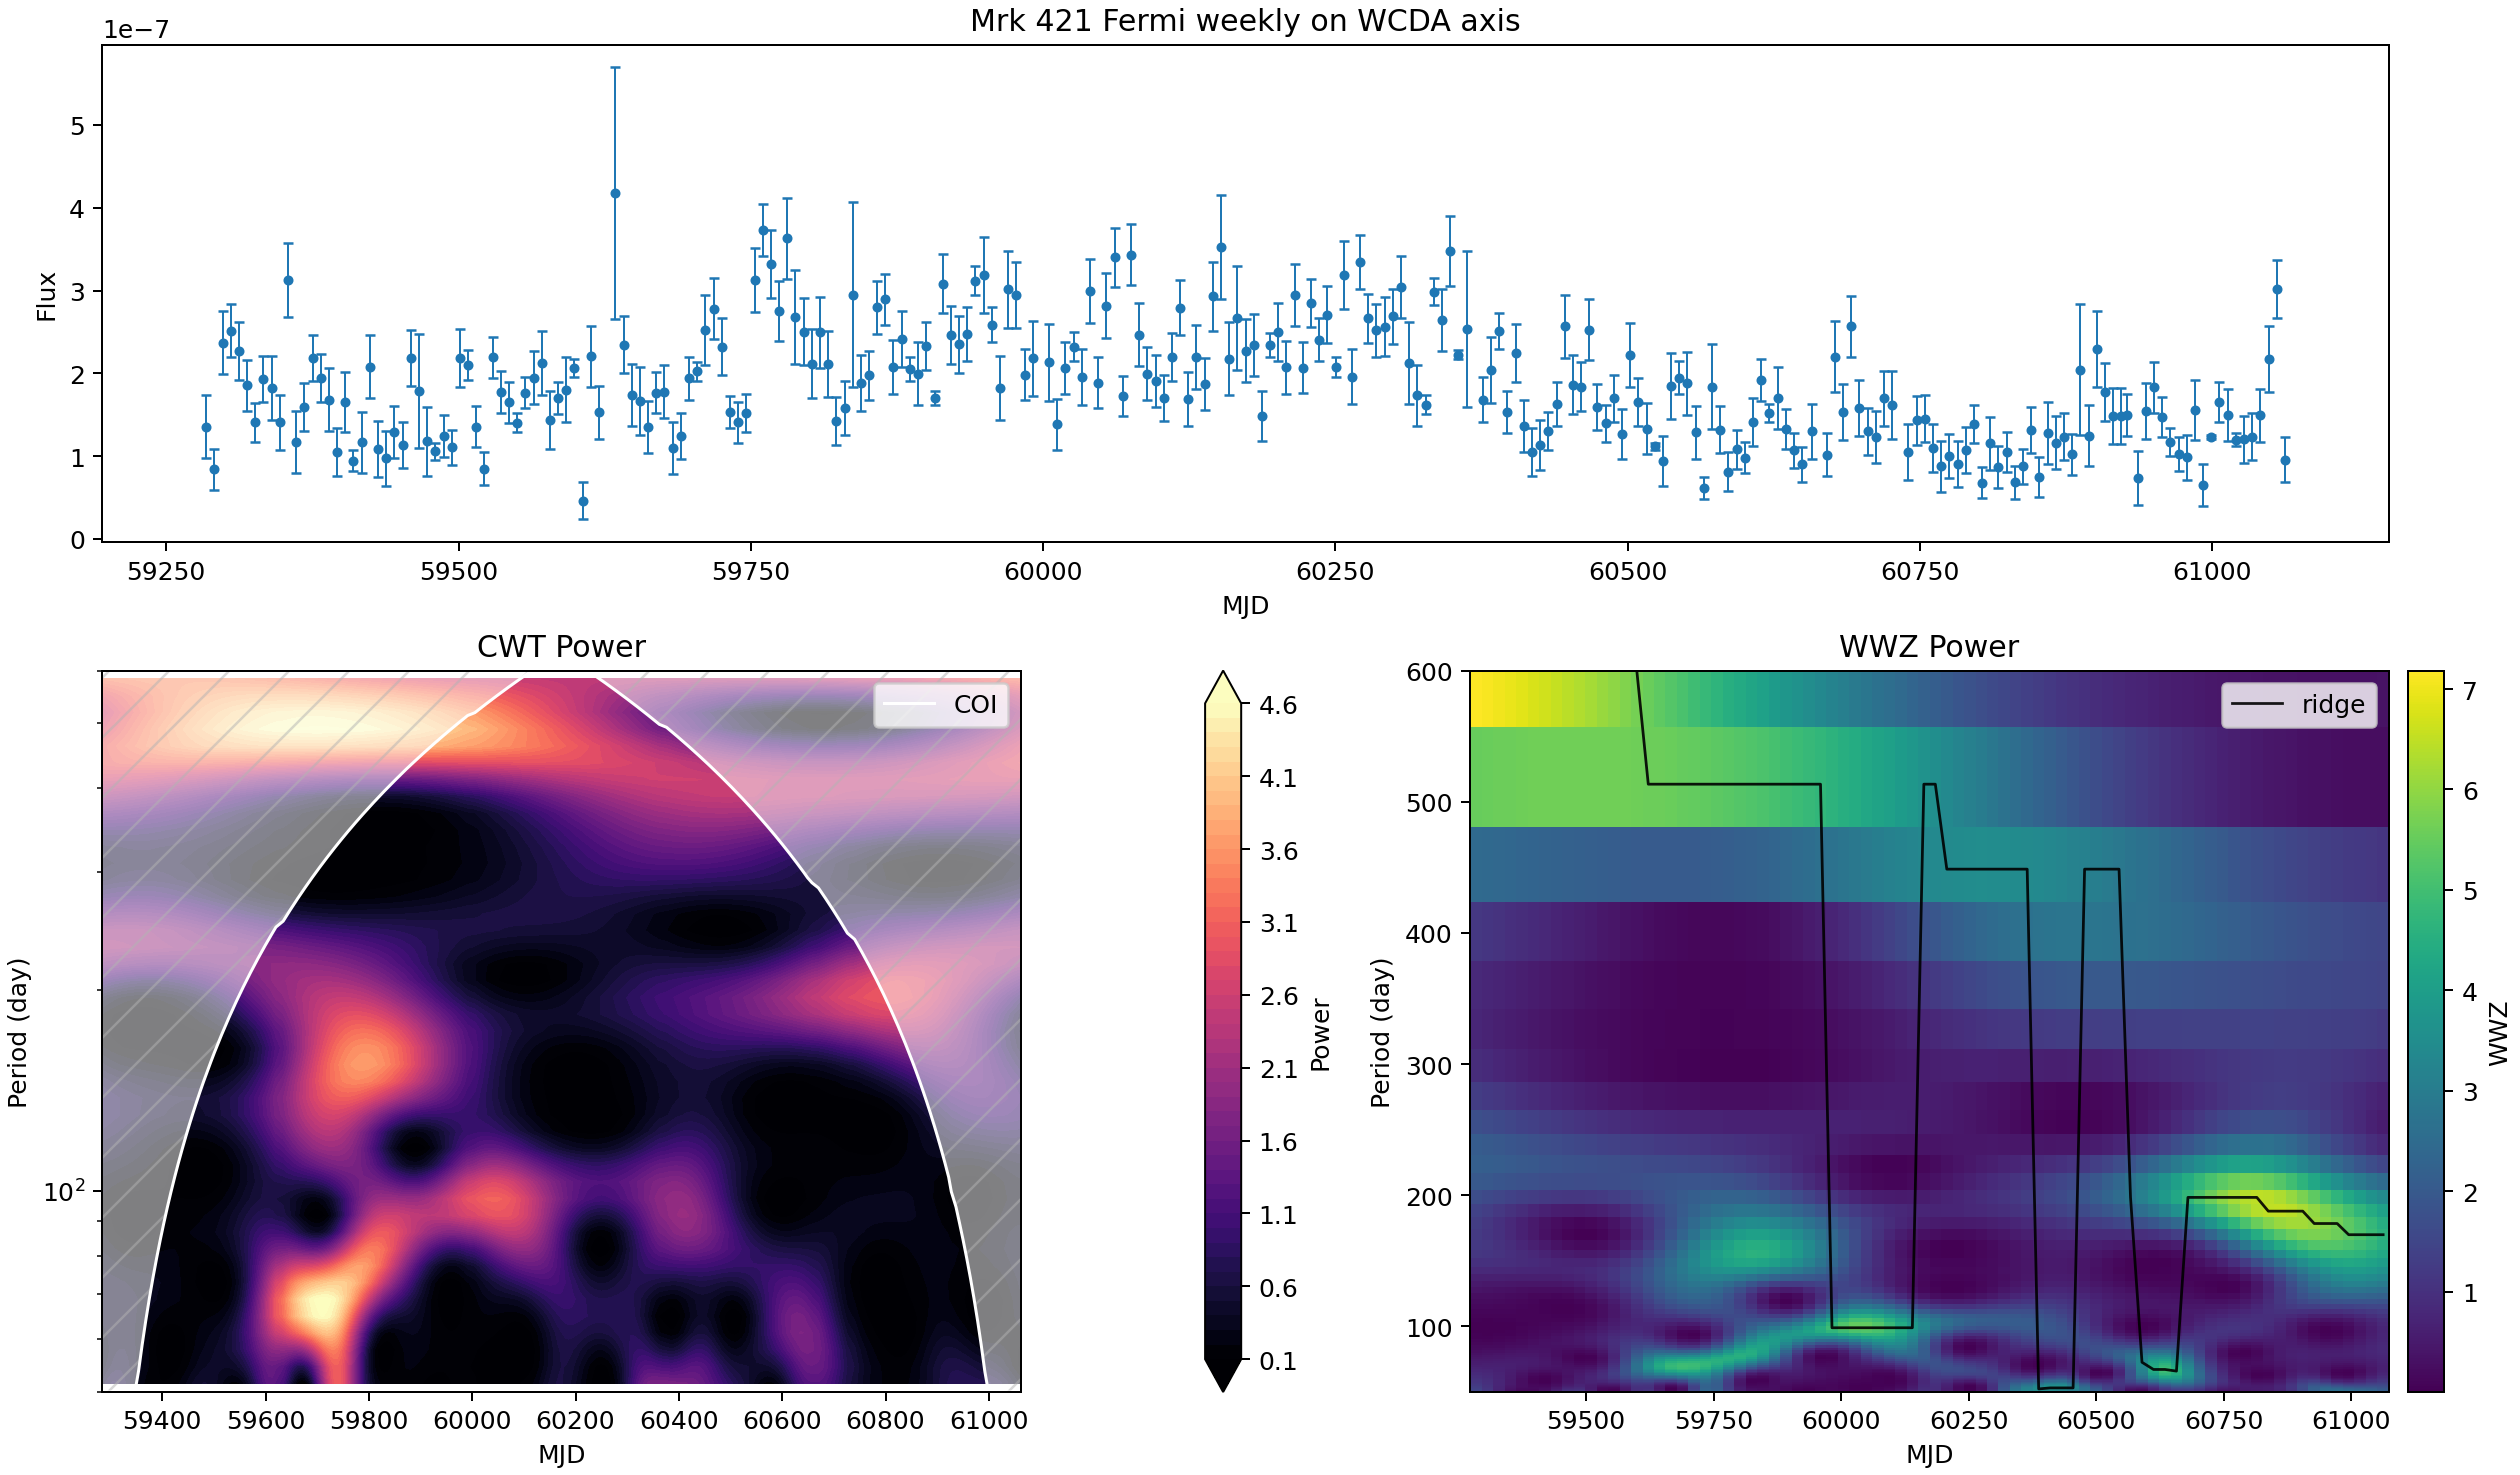
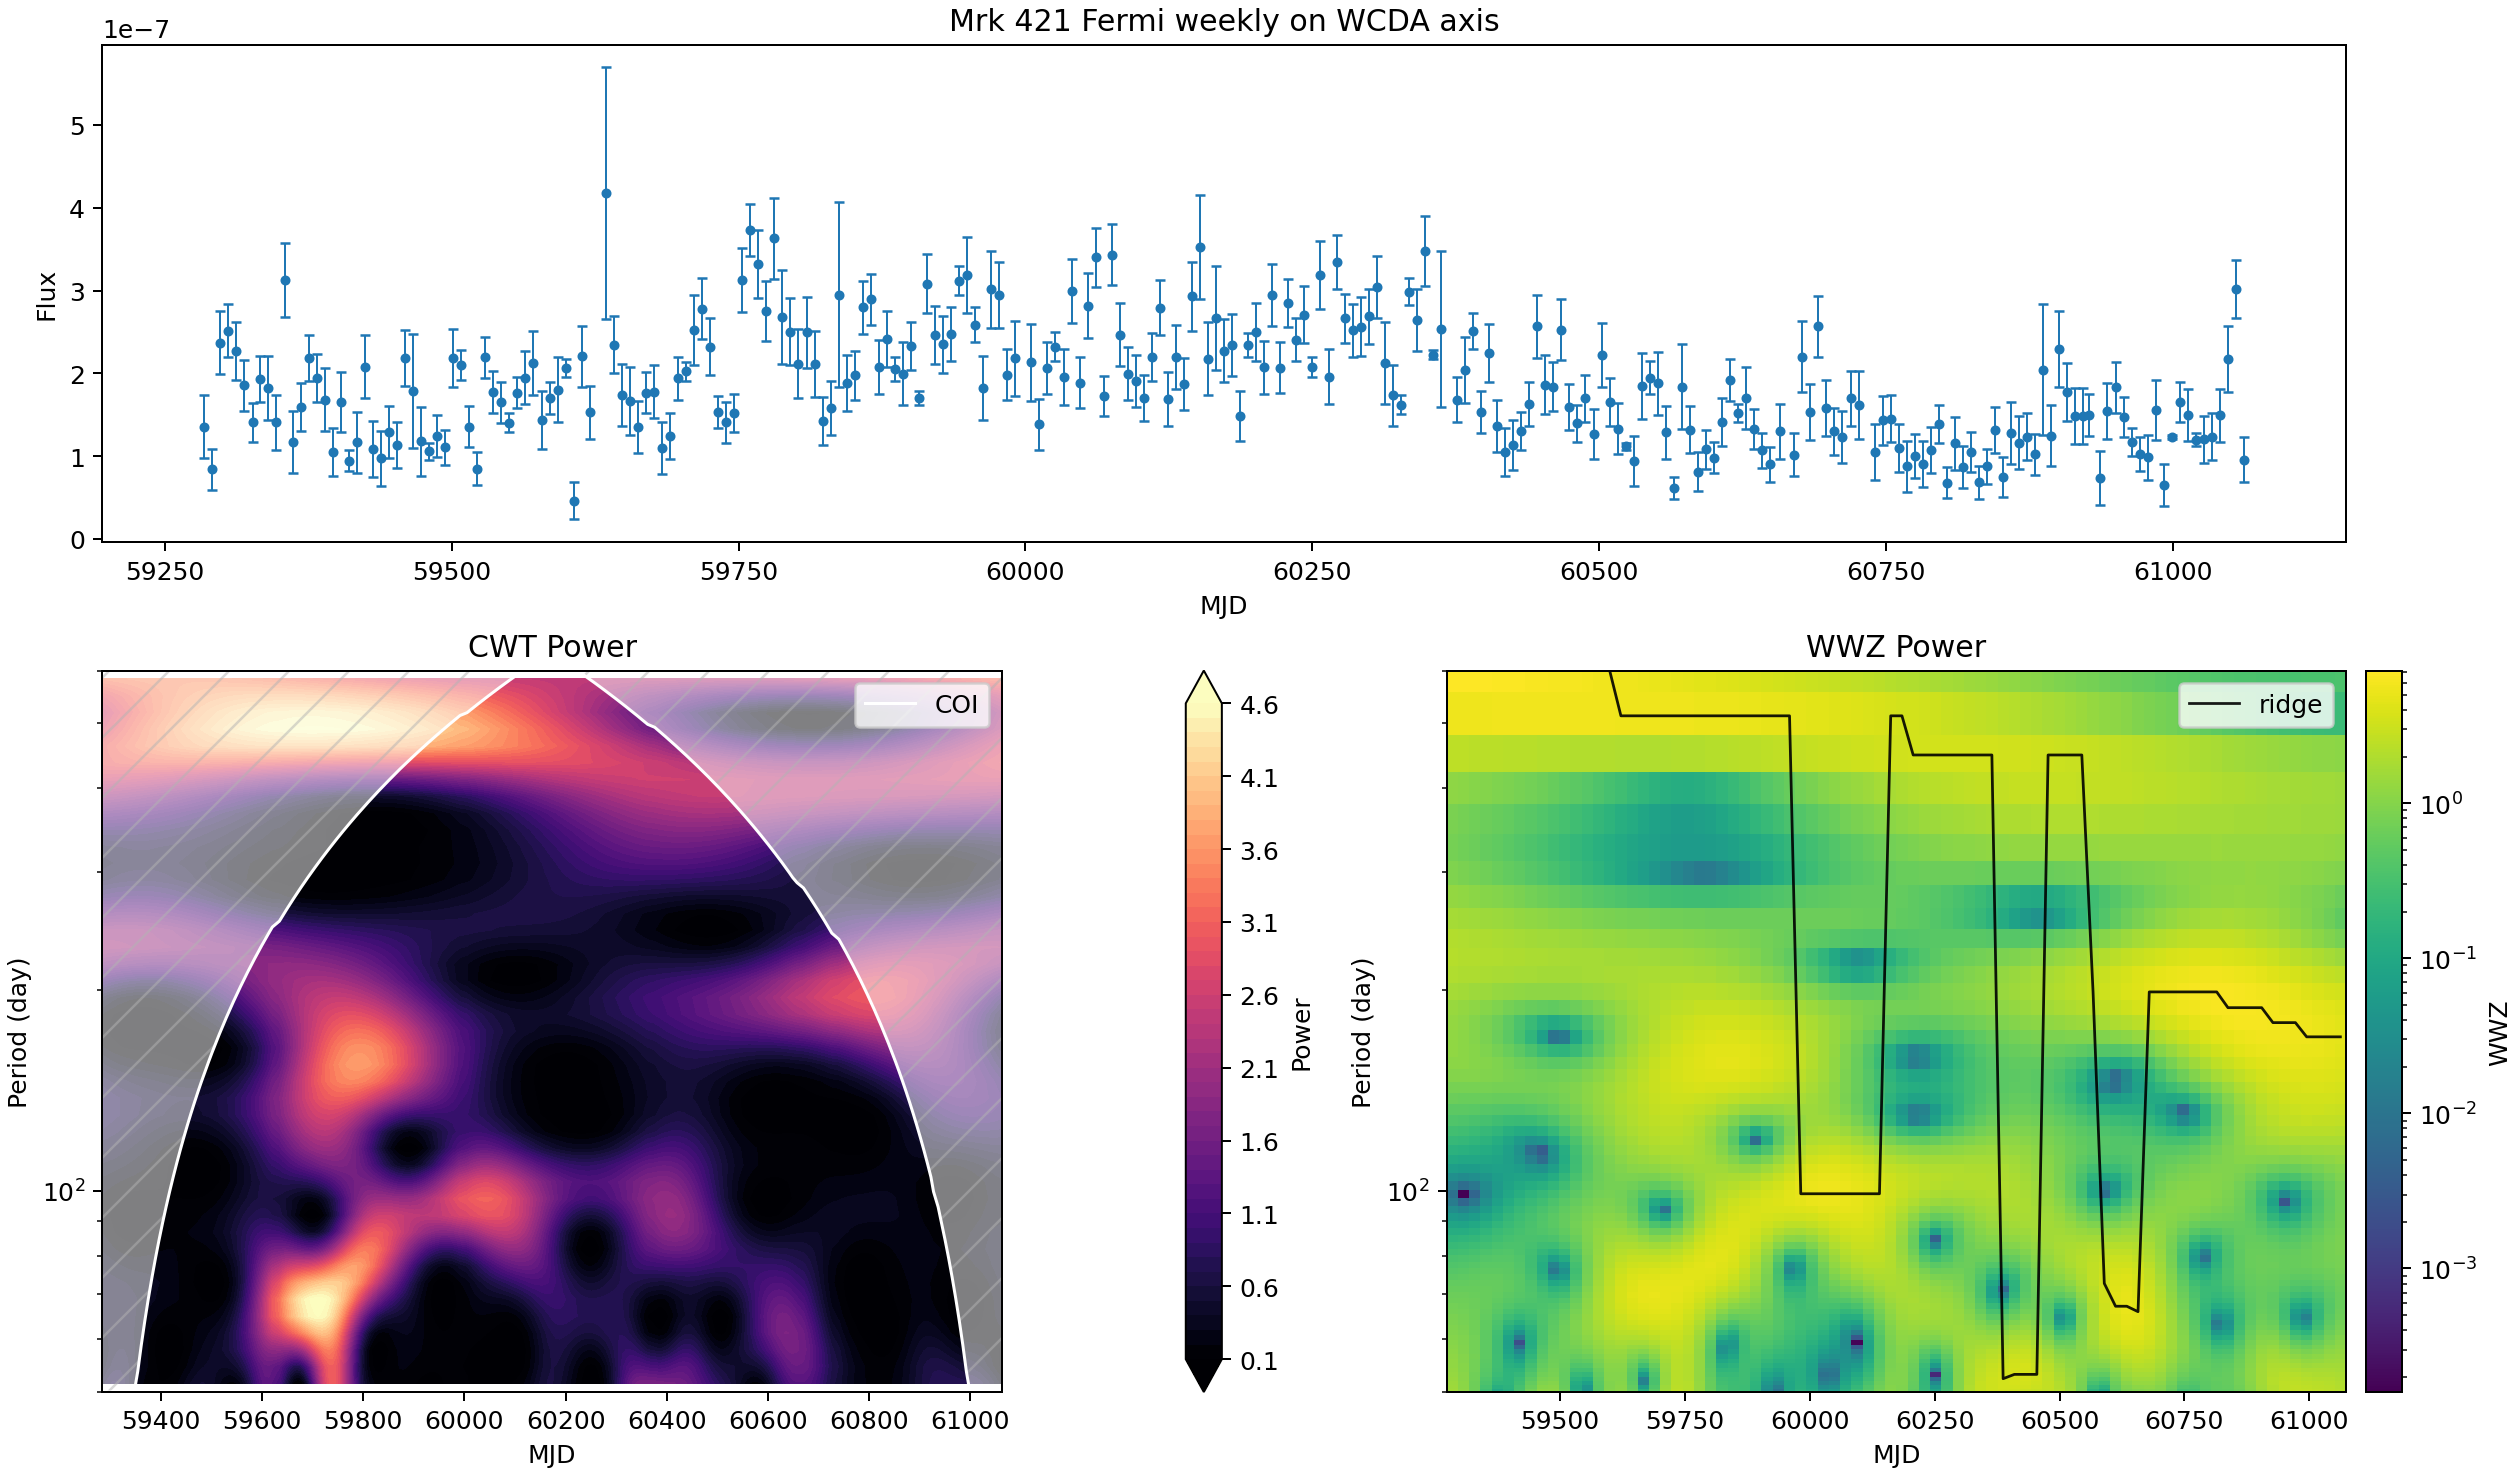
Update QPO WWZ plots to log scale

diff --git a/qpo-periodicity-v1/index.html b/qpo-periodicity-v1/index.html
@@ -130,7 +130,7 @@
   <div class="topline">
     <div>
       <h1>Mrk 421 / Mrk 501 WCDA Periodicity Analysis v1</h1>
-      <p class="meta">Published on GitHub Pages. Report date: 2026-05-14.</p>
+      <p class="meta">Published on GitHub Pages. Report date: 2026-05-20.</p>
     </div>
     <div class="language-toggle" aria-label="Language switch">
       <button type="button" data-lang-button="zh" class="active">中文</button>
@@ -154,6 +154,7 @@
 
     <h2>方法</h2>
     <p>WCDA flux 使用 excess rate 表示：<code>sum(n_on - n_bkg) / tobs</code>，误差使用逐 hit bin 传播的 Poisson-style on/off 近似。CWT 使用 <code>pycwt</code> 的 Morlet wavelet，WWZ 使用 <code>libwwz</code>，入口脚本为 <code>src/pipeline/periodicity_v1.py</code>。</p>
+    <p>WWZ 热图采用对数颜色归一化，周期轴也使用对数刻度，以提高整个搜索周期范围内的可视化对比度。该修改只影响显示方式；WWZ 峰值搜索仍使用保存的线性 power 数值。</p>
     <p class="note">当前 v1 不包含 red-noise simulations、Monte Carlo thresholds、local significance contours、pre-trial significance 或 post-trial significance。</p>
 
     <h2>峰值摘要</h2>
@@ -212,6 +213,7 @@
 
     <h2>Methods</h2>
     <p>WCDA flux is represented as an excess rate, <code>sum(n_on - n_bkg) / tobs</code>, with a Poisson-style on/off error approximation propagated per hit bin. CWT uses a Morlet wavelet through <code>pycwt</code>. WWZ uses <code>libwwz</code>, with the v1 quick-look grid saved by <code>src/pipeline/periodicity_v1.py</code>.</p>
+    <p>WWZ heatmaps use log color normalization and a log-scaled period axis to improve visual contrast across the searched period range. This changes the display only; the WWZ peak search still uses the saved linear power values.</p>
     <p class="note">This v1 report includes no red-noise simulations, Monte Carlo thresholds, local significance contours, pre-trial significance, or post-trial significance.</p>
 
     <h2>Peak Summary</h2>

diff --git a/index.html b/index.html
@@ -107,10 +107,10 @@
         <span class="title">Mrk 421 / Mrk 501 WCDA 周期性分析 v1</span>
         <p class="desc">
           LHAASO-WCDA 周光变双源对比：Mrk 421 保留 WCDA daily、WCDA weekly 与 Fermi weekly 对照，
-          Mrk 501 新增 WCDA weekly。页面提供中/英切换；本版为 CWT 与 WWZ quick-look，不包含模拟显著性分析。
+          Mrk 501 新增 WCDA weekly。页面提供中/英切换；本版为 CWT 与 WWZ quick-look，WWZ 热图已改为 log 色标与 log 周期轴，不包含模拟显著性分析。
         </p>
         <span class="meta">
-          <time datetime="2026-05-14">2026-05-14</time>
+          <time datetime="2026-05-20">2026-05-20</time>
           <span class="tag">QPO</span>
           <span class="tag">WCDA</span>
           <span class="tag">Fermi</span>

diff --git a/qpo-periodicity-v1/periodicity_v1_report.md b/qpo-periodicity-v1/periodicity_v1_report.md
@@ -1,10 +1,10 @@
 # Mrk 421 / Mrk 501 WCDA Periodicity Analysis v1
 
-Published on GitHub Pages. Report date: 2026-05-14.
+Published on GitHub Pages. Report date: 2026-05-20.
 
 This report keeps the existing Mrk 421 WCDA/Fermi quick-look periodicity analysis and adds the newly generated Mrk 501 LHAASO-WCDA weekly light curve. It runs CWT and WWZ checks and intentionally excludes simulation-based significance testing.
 
-The updated figures use a clearer layout: the light curve is shown across the first row, while CWT and WWZ maps are separated on the second row.
+The updated figures use a clearer layout: the light curve is shown across the first row, while CWT and WWZ maps are separated on the second row. WWZ heatmaps now use log color normalization and a log-scaled period axis for better visual contrast across the searched period range.
 
 ## Peak Summary
 
